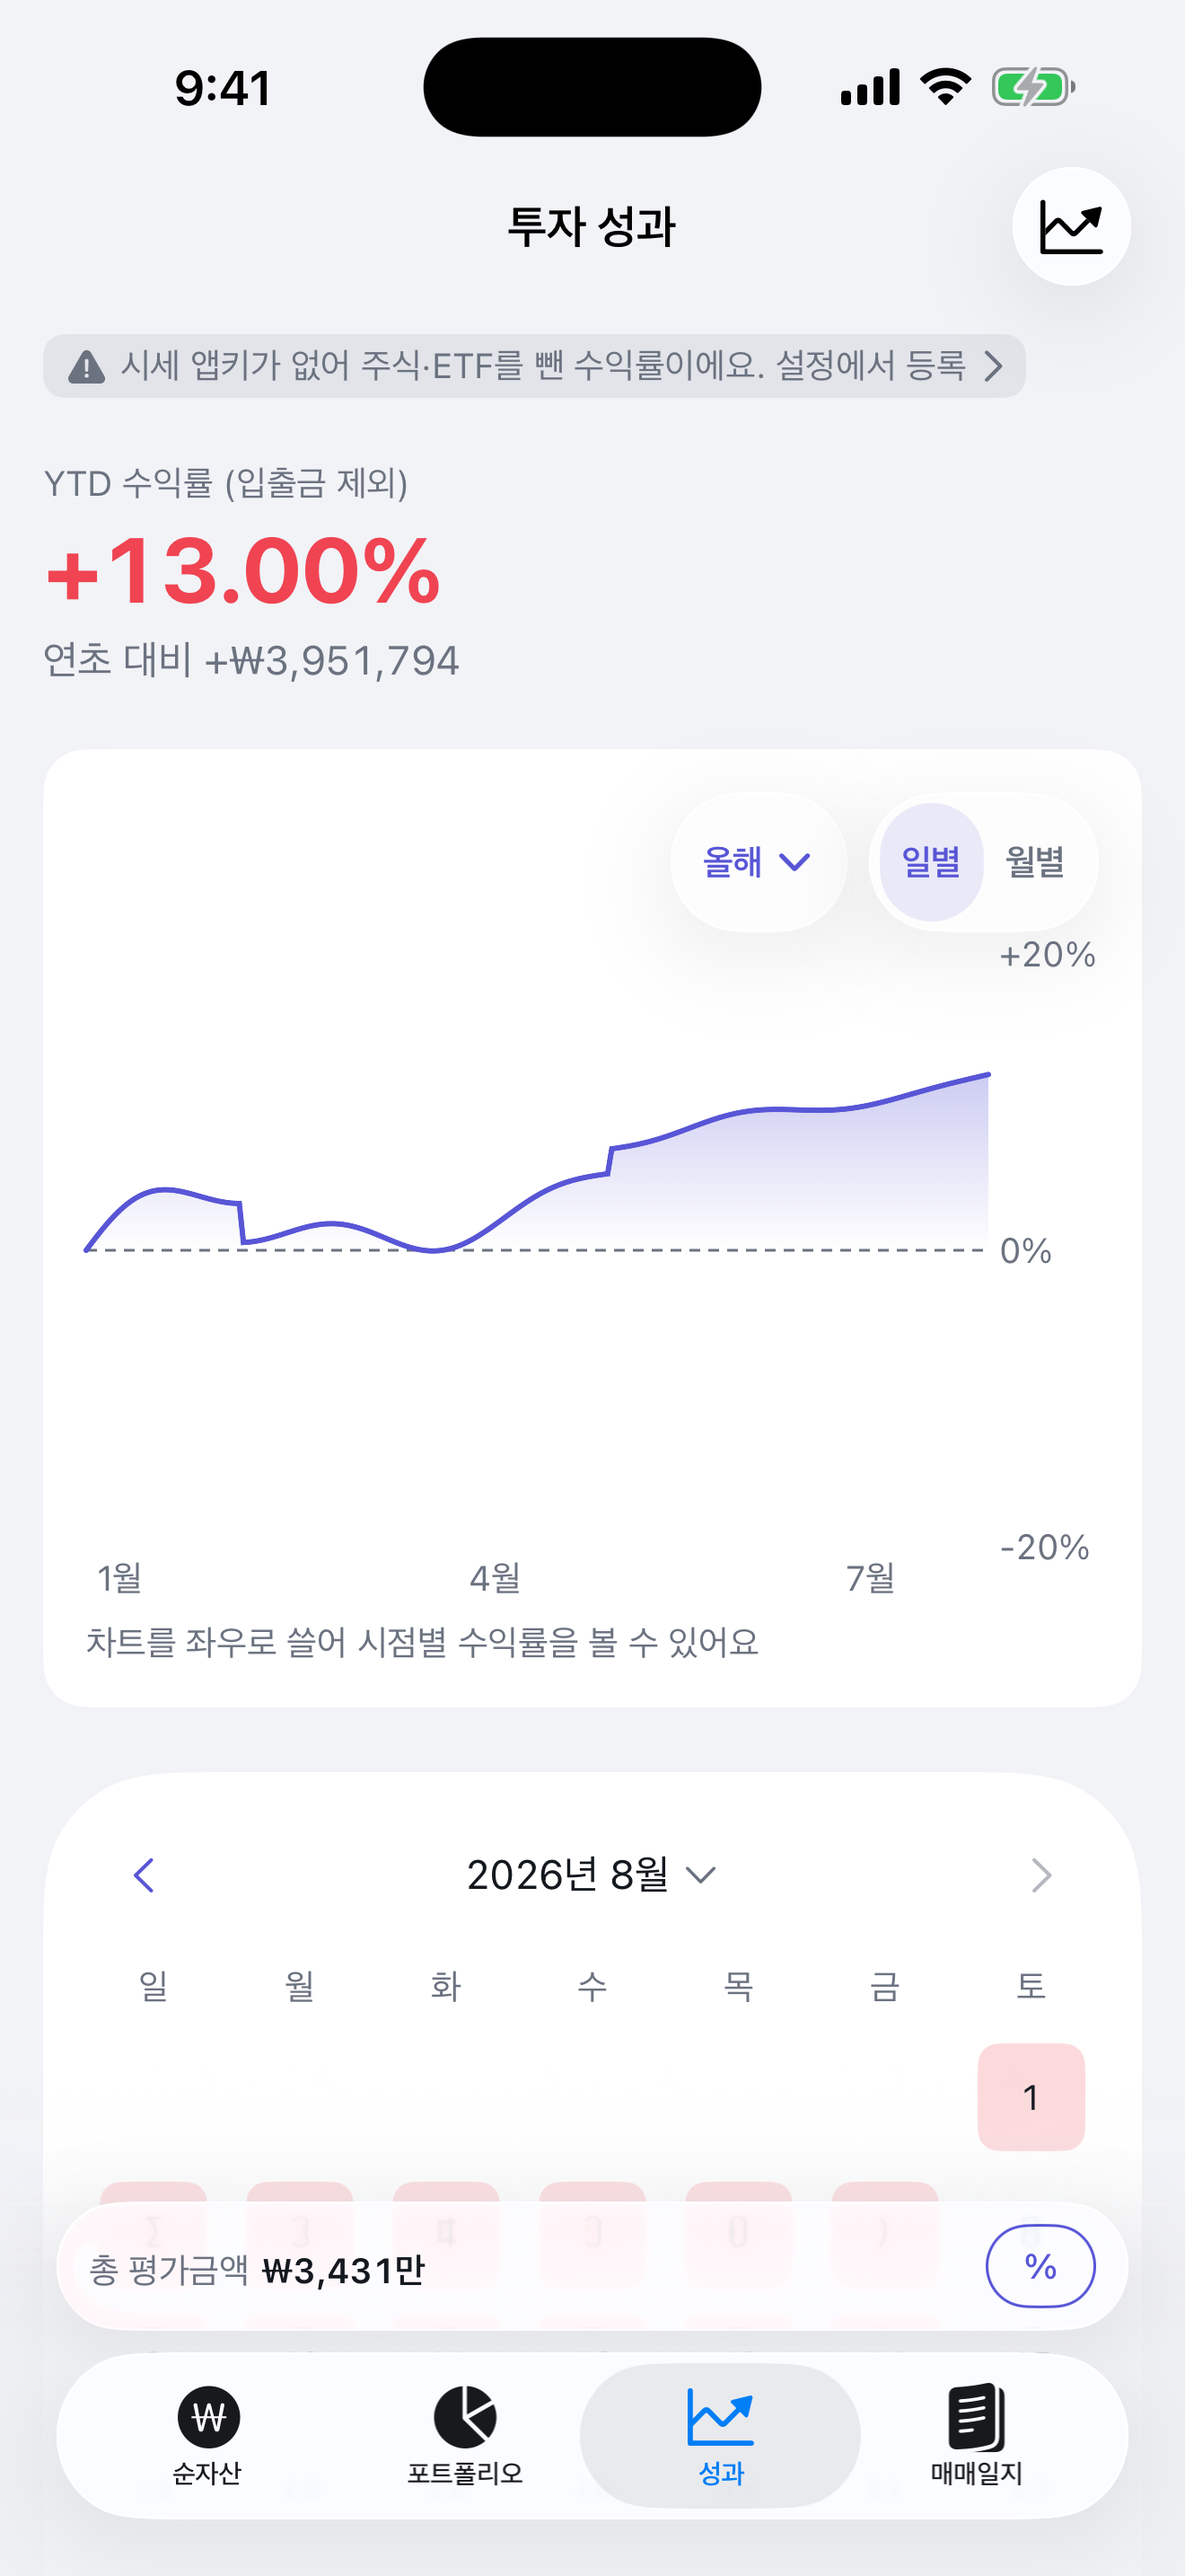
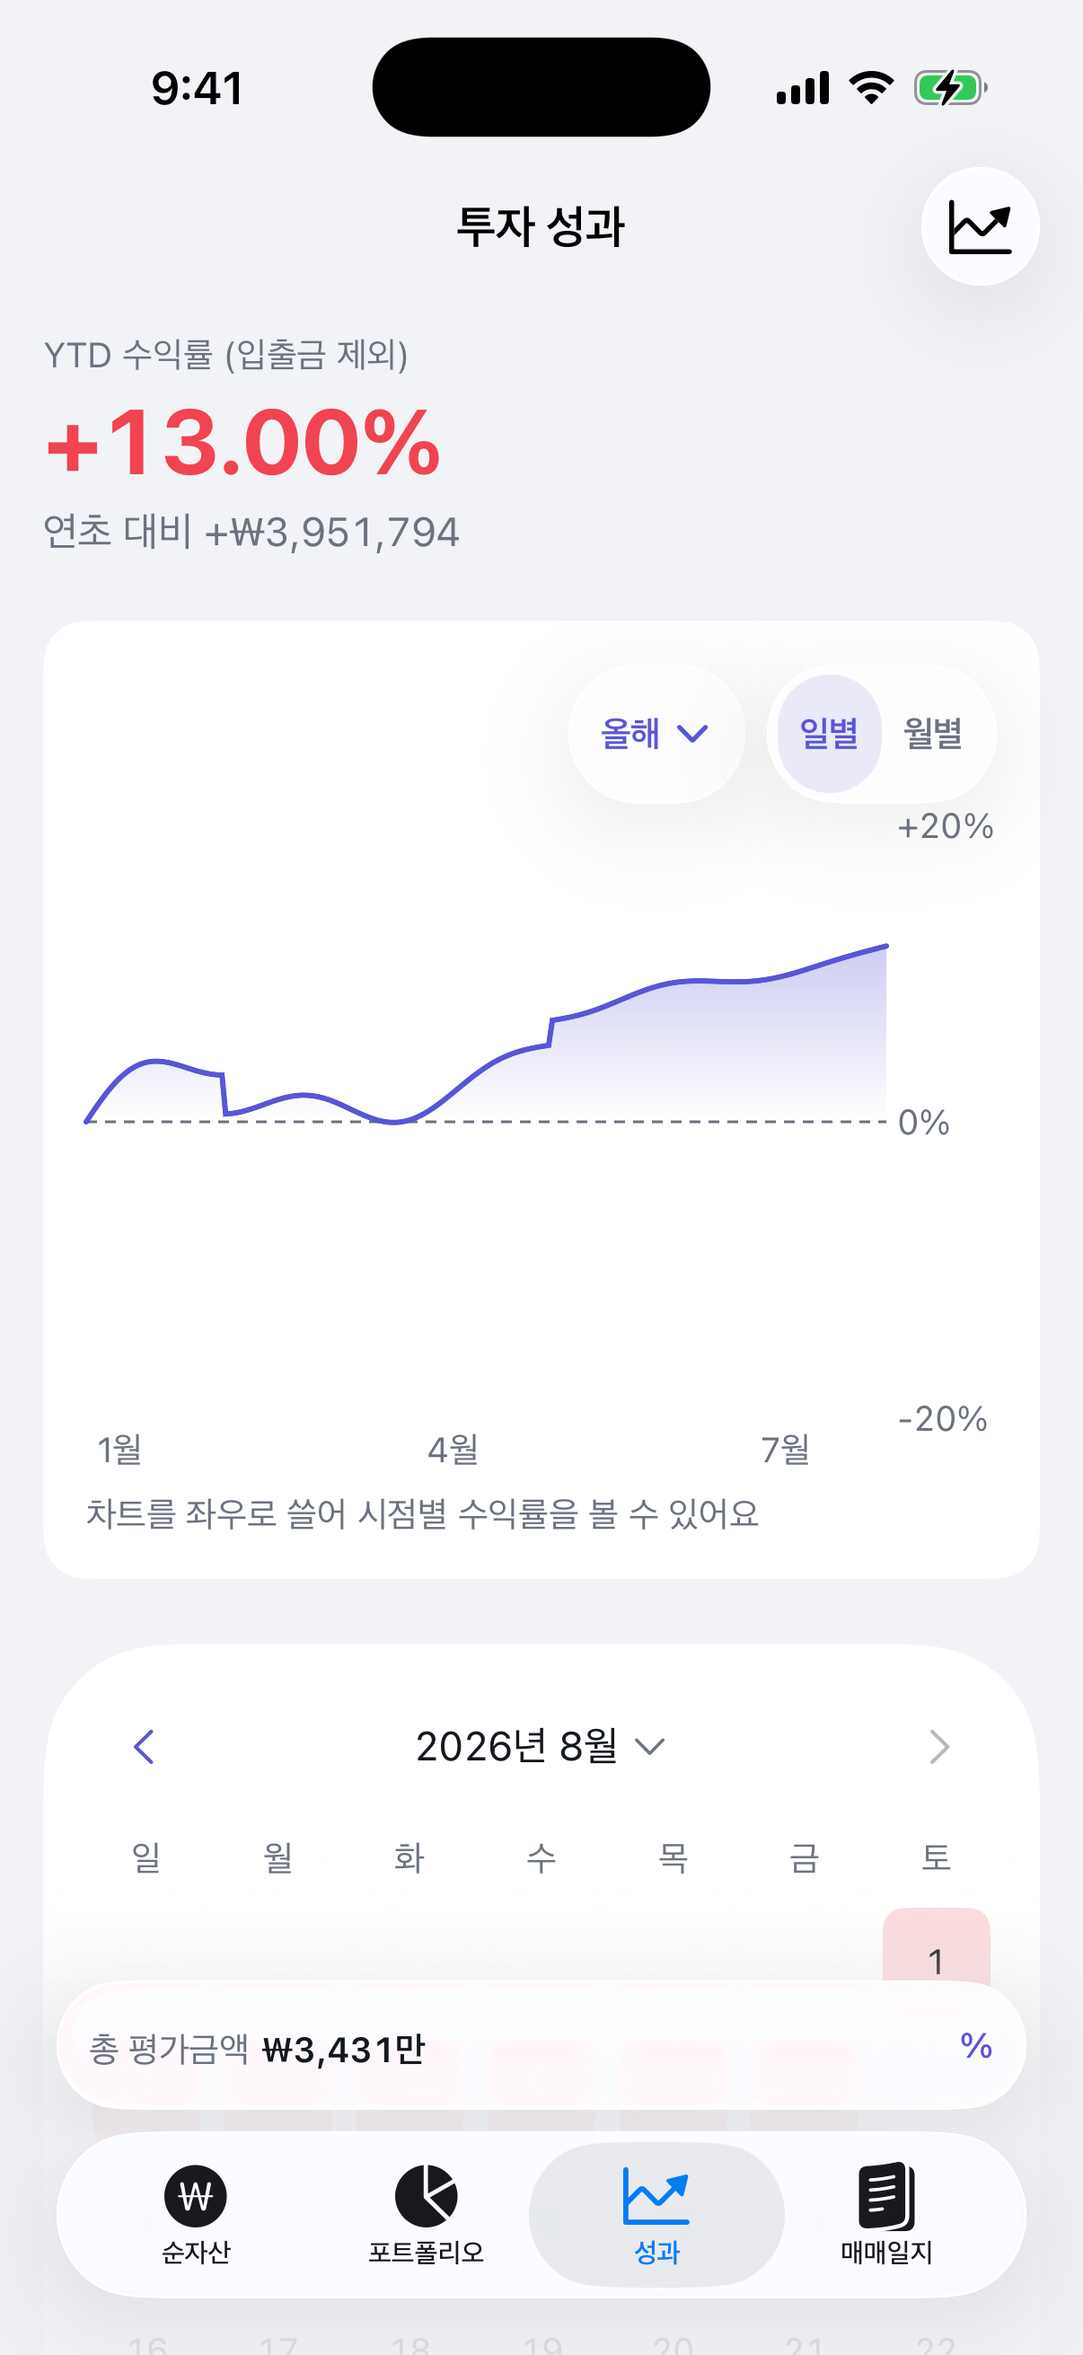
docs: 앱 미리보기 스크린샷을 새 액세서리 문법으로 다시 찍는다
- 라이트·다크 4탭 8장 재촬영 (iPhone 17 Pro · `-seed-demo` · 상태바 9:41 고정)
- README 미리보기 각주를 캡슐째 버튼 세 탭 + 매매일지 작성 버튼으로 고쳐 쓴다

diff --git a/README.md b/README.md
@@ -39,7 +39,8 @@
 | 총자산 · 자산군 도넛 | 보유 종목 · 비중 | YTD 수익률 · 캘린더 | 기록 · 종목 태그 |
 
 > 데모 데이터(`-seed-demo` 실행 인자)로 띄운 화면입니다. 실제 보유 종목이 아닙니다.
-> 하단 캡슐은 iOS 26 `tabViewBottomAccessory` 이고, 탭마다 다른 컨트롤이 올라갑니다.
+> 하단 캡슐은 iOS 26 `tabViewBottomAccessory` 입니다. 순자산·포트폴리오·투자 성과는 캡슐 전체가
+> 버튼이고(통화 전환 · 입출금 기록 · %↔₩ 전환), 매매일지만 오른쪽에 작성 버튼을 따로 답니다.
 
 ## 🛠 기술 스택
 
